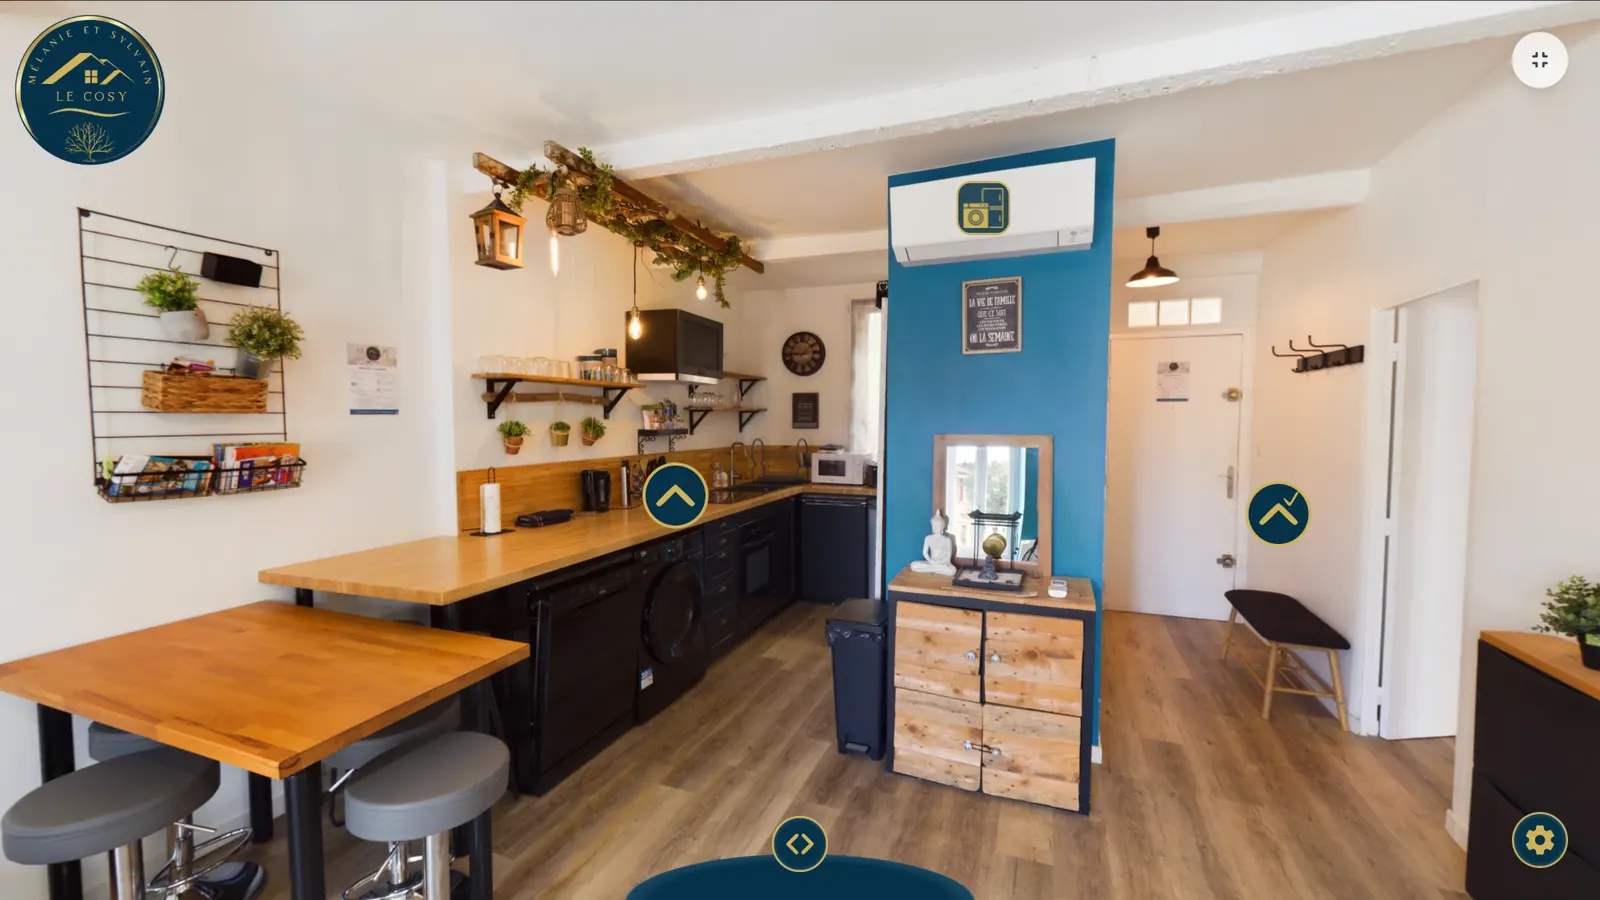
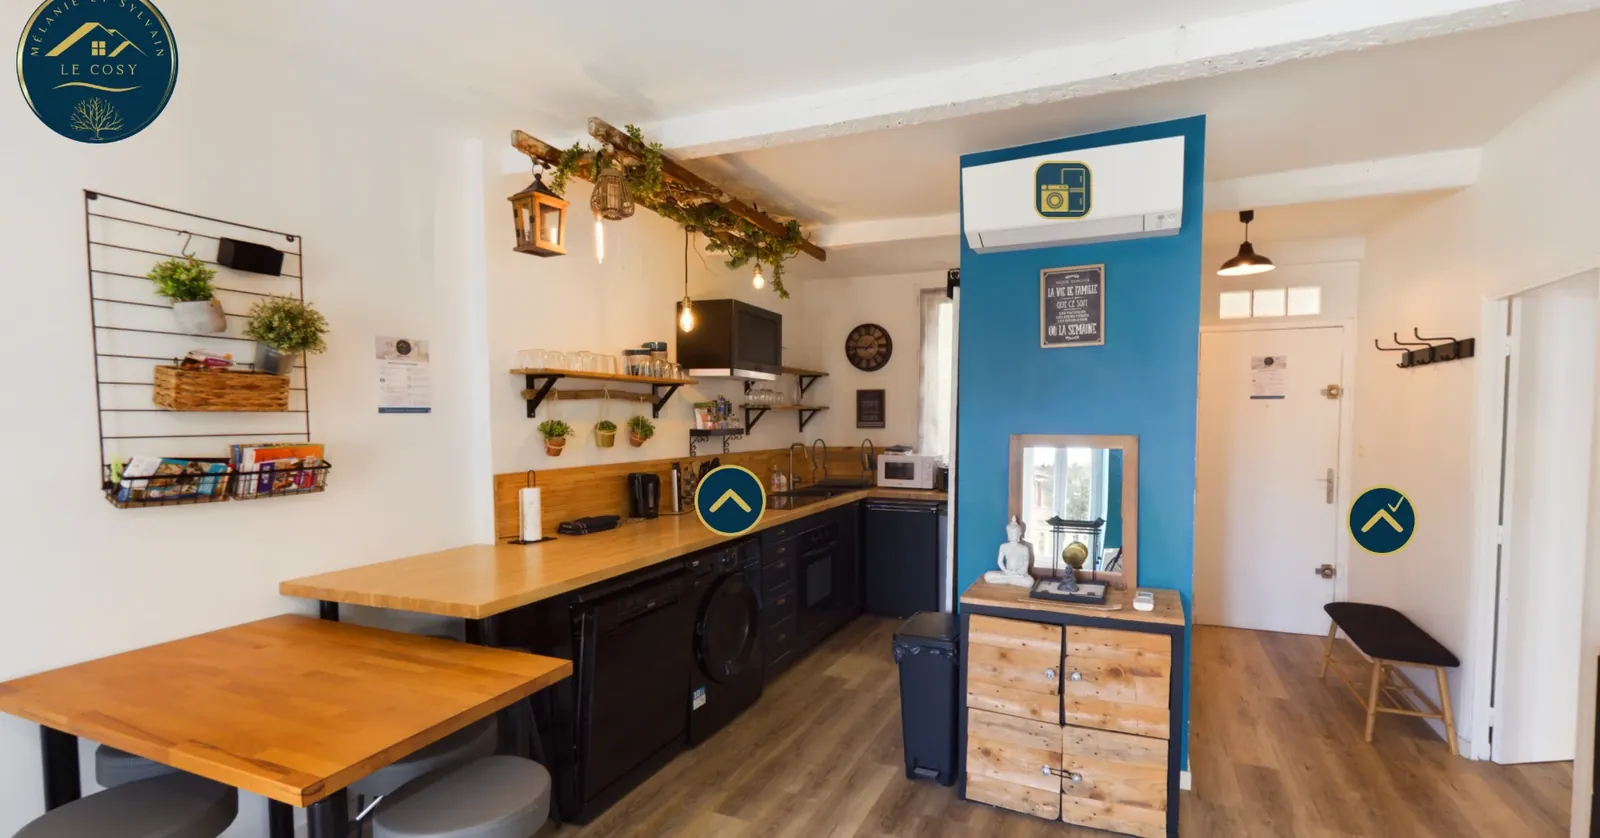
Locations saisonnières : colonne de gauche simplifiée et téléphones en relief
Titre « Visitez en immersion 360° avant de réserver. », description en
deux phrases, un seul bouton « Voir les locations » en blanc contrasté,
logos Airbnb et Booking réduits sous le bouton avec « Disponible sur …
ou en direct », trois puces avec pictogrammes (immersion 360°, zéro
mauvaise surprise, tout au même endroit). Premier téléphone plus grand
et plus haut, ombres portées plus douces. Photo d'intérieur plus
présente en fond, recadrée pour retirer l'interface de l'application.

Claude-Session: https://claude.ai/code/session_01K5hB1ppS3JWBUTC7PhSBqy

diff --git a/src/components/nova/HomePage.tsx b/src/components/nova/HomePage.tsx
@@ -1,7 +1,7 @@
 import { LatestPlaces } from "./LatestPlaces";
 import { MobileMenu } from "./MobileMenu";
 import { MotionEffects } from "./MotionEffects";
-import { ClipboardList, MousePointerClick, ShieldCheck } from "lucide-react";
+import { ClipboardList, Eye, MousePointerClick, ShieldCheck } from "lucide-react";
 import { SeasonalStays } from "./SeasonalStays";
 
 
@@ -157,45 +157,52 @@ export function HomePage() {
           <div className="saison-showcase__content">
             <p className="saison-showcase__eyebrow">Locations saisonnières</p>
             <h2 id="partner-title">
-              Visitez avant
+              Visitez en immersion 360°
               <br />
-              de réserver.
+              avant de réserver.
             </h2>
             <p className="saison-showcase__lead">
-              Visualisez les lieux en immersion 360° avant de réserver votre logement sur les
-              plateformes.
+              Explorez gîtes, maisons et appartements pièce par pièce. Réservez en toute confiance
+              sur vos plateformes préférées ou en direct.
             </p>
-            <p className="saison-showcase__sub">
-              Gîtes, maisons et appartements de vacances se visitent pièce par pièce, avec leurs
-              photos et toutes leurs informations pour réserver en confiance.
-            </p>
-
-            <div className="saison-platforms" aria-label="Plateformes de réservation concernées">
-              <span className="saison-platforms__label">Avant de réserver sur</span>
-              <span className="saison-platforms__logo saison-platforms__logo--airbnb">
-                <img src="/stays/airbnb-logo.png" alt="Airbnb" height="40" />
-              </span>
-              <span className="saison-platforms__logo saison-platforms__logo--booking">
-                <img src="/stays/booking-logo.png" alt="Booking.com" height="40" />
-              </span>
-              <span className="saison-platforms__label">ou en direct.</span>
-            </div>
 
             <div className="saison-showcase__actions">
               <a className="saison-showcase__cta" href={STAYS_URL} target="_blank" rel="noreferrer">
                 Voir les locations <b aria-hidden="true">→</b>
               </a>
-              <a className="saison-showcase__link" href="/contact">
-                Augmentez votre taux de satisfaction avec la visite immersive.
-                <br />
-                Toutes les informations au même endroit. <b aria-hidden="true">→</b>
-              </a>
             </div>
 
-            <p className="saison-showcase__trust">
-              <ShieldCheck aria-hidden="true" />
-              Une visite immersive qui rassure avant la réservation, quelle que soit la plateforme.
-            </p>
+            <div className="saison-platforms" aria-label="Plateformes de réservation concernées">
+              <span className="saison-platforms__label">Disponible sur</span>
+              <span className="saison-platforms__logo saison-platforms__logo--airbnb">
+                <img src="/stays/airbnb-logo.png" alt="Airbnb" height="24" />
+              </span>
+              <span className="saison-platforms__logo saison-platforms__logo--booking">
+                <img src="/stays/booking-logo.png" alt="Booking.com" height="36" />
+              </span>
+              <span className="saison-platforms__label">ou en direct</span>
+            </div>
+
+            <ul className="saison-benefits">
+              <li>
+                <Eye aria-hidden="true" />
+                <span>
+                  <strong>Immersion 360°</strong> Une visite virtuelle fidèle au lieu.
+                </span>
+              </li>
+              <li>
+                <ShieldCheck aria-hidden="true" />
+                <span>
+                  <strong>Zéro mauvaise surprise</strong> Transparence totale avant de réserver.
+                </span>
+              </li>
+              <li>
+                <ClipboardList aria-hidden="true" />
+                <span>
+                  <strong>Tout au même endroit</strong> Coordonnées, avis, réseaux et réservation.
+                </span>
+              </li>
+            </ul>
           </div>
 
           <SeasonalStays />

diff --git a/src/styles.css b/src/styles.css
@@ -8013,3 +8013,186 @@ main.offers-page .quote-section {
 .saison-showcase__lead {
   max-width: 34ch;
 }
+
+/* ============================================================
+   Locations saisonnières v3 : colonne de gauche aérée, un seul
+   bouton, logos discrets, puces avec pictogrammes, téléphones en
+   relief sur la photo d'intérieur.
+   ============================================================ */
+.saison-showcase__bg--gradient img {
+  filter: saturate(1.05) brightness(0.96) blur(2px);
+  object-position: center 40%;
+  opacity: 0.9;
+  transform: scale(1.03);
+}
+
+.saison-showcase__bg--gradient .saison-showcase__veil {
+  background:
+    linear-gradient(
+      100deg,
+      rgba(4, 24, 38, 0.95) 0%,
+      rgba(4, 24, 38, 0.88) 36%,
+      rgba(4, 24, 38, 0.5) 62%,
+      rgba(4, 24, 38, 0.28) 100%
+    ),
+    linear-gradient(180deg, rgba(4, 24, 38, 0.35), transparent 25%, transparent 70%, rgba(4, 24, 38, 0.55));
+}
+
+.saison-showcase__content h2 {
+  font-size: clamp(38px, 4.3vw, 66px);
+  font-weight: 700;
+  letter-spacing: -0.035em;
+  line-height: 1.02;
+  margin-bottom: clamp(14px, 2.2vh, 24px);
+}
+
+.saison-showcase__lead {
+  color: rgba(255, 255, 255, 0.86);
+  font-size: clamp(16px, 1.15vw, 19px);
+  font-weight: 500;
+  line-height: 1.55;
+  margin: 0 0 clamp(20px, 3vh, 32px);
+  max-width: 44ch;
+}
+
+.saison-showcase__actions {
+  margin-bottom: clamp(14px, 2vh, 22px);
+}
+
+.saison-showcase__cta {
+  background: #fff;
+  border-radius: 14px;
+  box-shadow: 0 12px 30px rgba(0, 0, 0, 0.3);
+  color: var(--ink);
+  font-size: 16px;
+  padding: 16px 28px;
+}
+
+.saison-showcase__cta:hover {
+  background: #f2fbfa;
+  box-shadow: 0 18px 40px rgba(0, 0, 0, 0.35);
+}
+
+.saison-showcase__cta b {
+  color: var(--teal-dark);
+}
+
+.saison-platforms {
+  gap: 8px 10px;
+  margin-bottom: clamp(20px, 3vh, 32px);
+}
+
+.saison-platforms__label {
+  color: rgba(255, 255, 255, 0.66);
+  font-size: 13px;
+  font-weight: 600;
+}
+
+.saison-platforms__logo {
+  border-radius: 10px;
+  box-shadow: none;
+  height: 36px;
+  padding: 0 10px;
+}
+
+.saison-platforms__logo--airbnb img {
+  height: 24px;
+}
+
+.saison-platforms__logo--booking img {
+  border-radius: 10px;
+  box-shadow: none;
+  height: 36px;
+}
+
+.saison-benefits {
+  display: grid;
+  gap: 10px;
+  list-style: none;
+  margin: 0;
+  padding: 0;
+}
+
+.saison-benefits li {
+  align-items: center;
+  color: rgba(255, 255, 255, 0.8);
+  display: flex;
+  font-size: 15px;
+  gap: 12px;
+  line-height: 1.4;
+}
+
+.saison-benefits li strong {
+  color: #fff;
+  font-weight: 700;
+  margin-right: 6px;
+}
+
+.saison-benefits svg {
+  background: rgba(95, 214, 205, 0.16);
+  border-radius: 50%;
+  box-sizing: content-box;
+  color: #5fd6cd;
+  flex: none;
+  height: 18px;
+  padding: 8px;
+  stroke-width: 2;
+  width: 18px;
+}
+
+/* Téléphones : le premier plus grand et plus haut, ombres douces. */
+.stay-phones {
+  align-items: flex-start;
+  gap: clamp(16px, 2vw, 32px);
+}
+
+.stay-phone:first-child {
+  flex-basis: clamp(200px, 19vw, 280px);
+}
+
+.stay-phone--offset {
+  flex-basis: clamp(170px, 15.5vw, 230px);
+  margin-top: clamp(40px, 7vh, 88px);
+}
+
+.stay-phone__frame {
+  box-shadow:
+    0 30px 45px -20px rgba(0, 0, 0, 0.6),
+    0 70px 90px -30px rgba(0, 0, 0, 0.45),
+    inset 0 0 0 2px rgba(255, 255, 255, 0.12);
+}
+
+@media (min-width: 901px) and (max-height: 820px) {
+  .stay-phone:first-child {
+    flex-basis: clamp(180px, 16.5vw, 240px);
+  }
+
+  .stay-phone--offset {
+    flex-basis: clamp(160px, 14vw, 200px);
+    margin-top: 36px;
+  }
+
+  .saison-benefits {
+    gap: 8px;
+  }
+
+  .saison-benefits li {
+    font-size: 14px;
+  }
+}
+
+@media (max-width: 900px) {
+  .stay-phone:first-child,
+  .stay-phone--offset {
+    flex: 1 1 0;
+  }
+
+  .stay-phone--offset {
+    margin-top: 28px;
+  }
+
+  .saison-benefits li {
+    align-items: flex-start;
+    font-size: 14px;
+  }
+}
